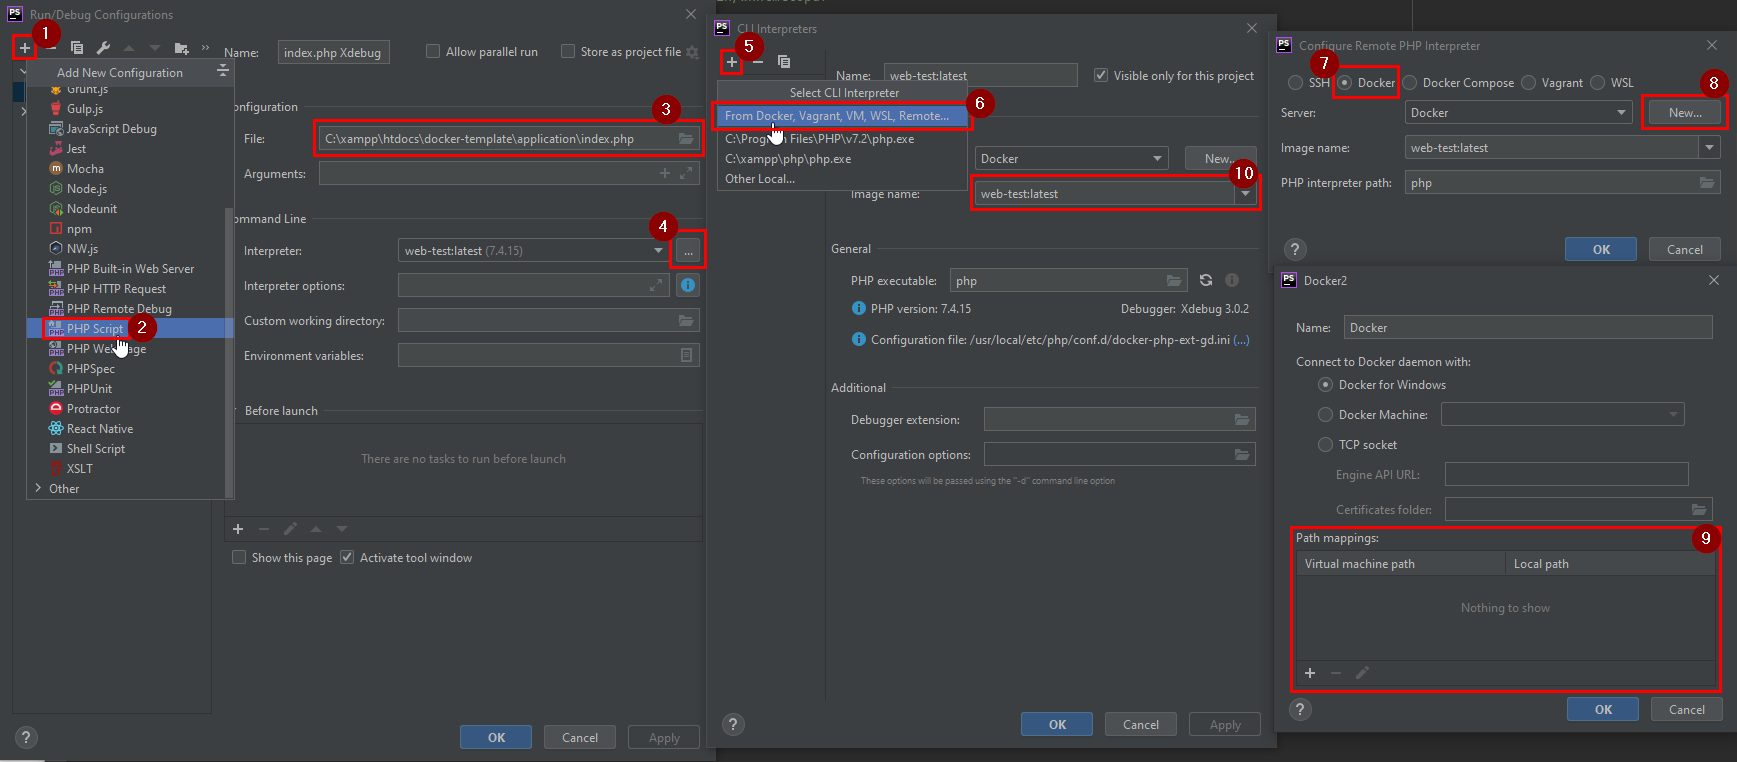
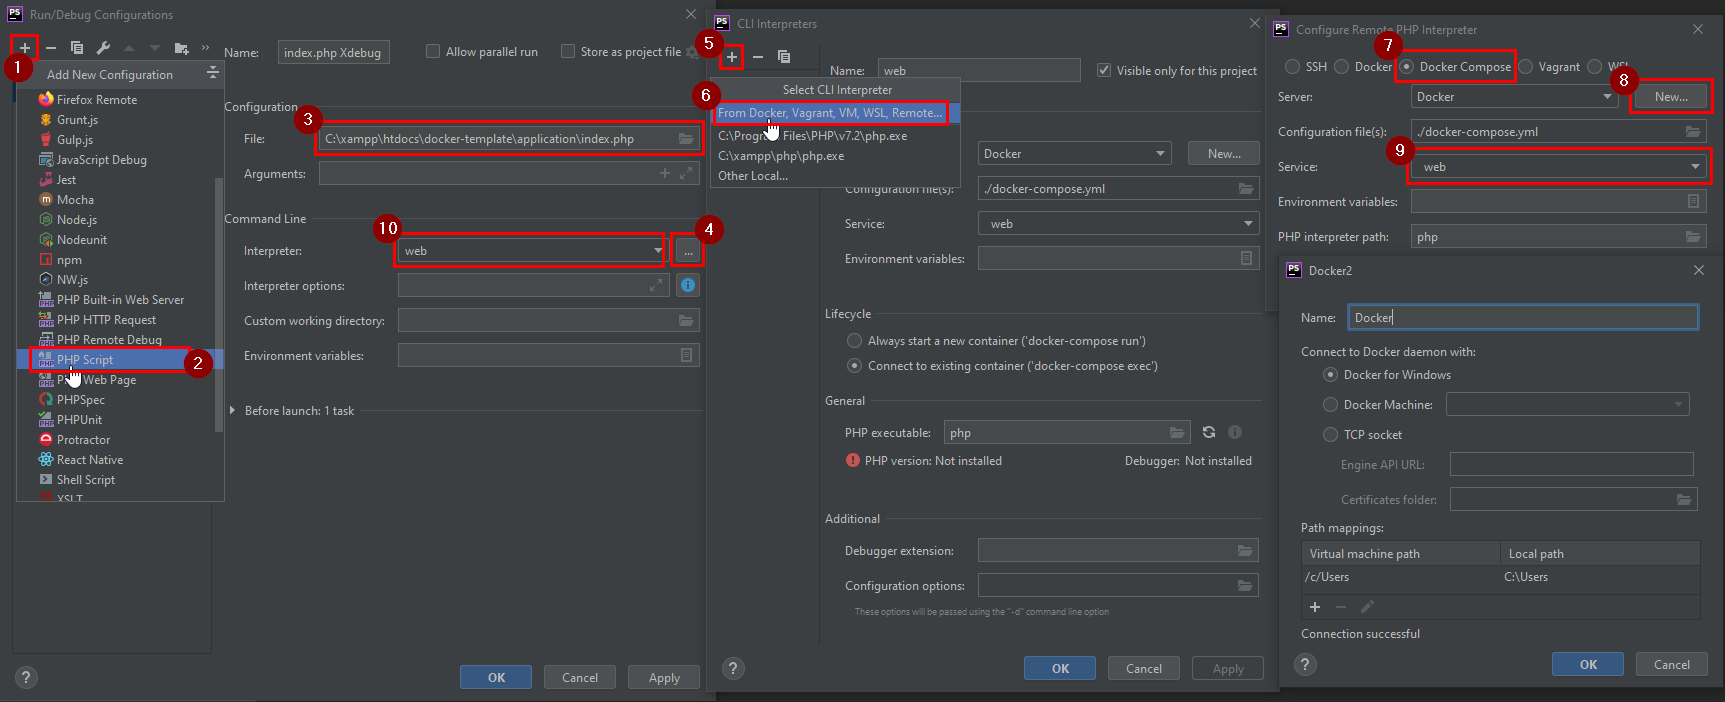
fixed weird PHPStorm xdebug run configuration of PHPScripts bug

diff --git a/README.md b/README.md
@@ -28,7 +28,7 @@ copy `.env.sample` to `.env`
 ### 2. Set some important variables
 Set your project name in the `.env` file like so:
 ```dotenv
-COMPOSE_PROJECT_NAME=my-project
+PROJECT_NAME=my-project
 ```
 This prevents container name collisions in the future.
 ___
@@ -184,25 +184,22 @@ The following picture describes how to setup a Debug Configuration in PHPStorm i
 1. Click on the `+`  to create a new configuration
 2. Choose `PHP Script`
 3. Choose your local file you want to debug
-4. Choose the PHP interpreter from the docker container
+4. Click on `...` next to the CLI interpreter
 5. Click on the `+` to create a new PHP CLI Interpreter
 6. Choose `From Docker, Vagrant, VM, WSL, Remote...`
-7. Choose `Docker`
-8. Create a new Docker server if you haven't configured one already
-9. Delete all path mappings here
+7. Choose `Docker Compose`
+8. Click on `New...` next to *Server* if you haven't created a Docker Server Configuration yet. Confirm with `OK`.
+10. Make sure to set the Interpreter to the created `web` CLI Interpreter.
 
-After that make sure you have the PHP CLI Interpreter configured to the docker container at `Settings - Languages & Frameworks - PHP`:
-![_docker/docs/interpreter.png](_docker/docs/xdebug-script-interpreter.png)
+After that make sure you **also** have the PHP CLI Interpreter configured to the docker container at `Settings - Languages & Frameworks - PHP`.
+Here you also have to configure the path mapping of your project root to the root inside the container (`/var/www/html`):
+![_docker/docs/xdebug-script-interpreter.png](_docker/docs/xdebug-script-interpreter.png)
 
-Now you can start debugging your PHP script by...
+Now you can start debugging your PHP script with...
 1. Setting a breakpoint in your PHP script:
 
    ![_docker/docs/xdebug-step1.png](_docker/docs/xdebug-step1.png)
-2. Listening to debug connections:
-
-   ![_docker/docs/xdebug-step2.png](_docker/docs/xdebug-step2.png)
-
-3. Start running the script with the debug button:
+2. Start running the script with the debug button:
 
    ![_docker/docs/xdebug-script-debug-button.png](_docker/docs/xdebug-script-debug-button.png)
 
@@ -252,7 +249,7 @@ Composer, npm and grunt is pre-installed in the `web` container.
 
 `composer install` and `npm install` is automatically executed at container startup if configured.
 
-If you want to manually execute another command, it is best to execute it **in** the container:
+If you want to manually execute another command, it is best to execute it **in** the `web` container:
 ```bash
 ./shell.cmd # go into container on unix/linux
 shell.cmd # go into container on windows
@@ -262,7 +259,6 @@ npm <any-npm-command>
 grunt
 <any-other-command>
 ```
-`COMPOSE_PROJECT_NAME` is defined in your `.env` file
 
 
 ### 11. Catch outgoing mails
@@ -553,9 +549,11 @@ shell.cmd db /bin/sh      # goes into db container on /bin/sh
 * [x] container entrance script independent of platform?
 * [x] support for php script xdebugging (e.g. via cake command class or classic script) -> PHPStorm: Languages & Frameworks - PHP -> CLI Interpreters; PHPStorm: Build, Execution, Deployment - Docker - add new Docker connection with path mapping
 * [x] progress output for initial .sql file import (working inside container; not working with `docker-compose up`)
-* [ ] php xdebug script with docker: db connection fails (see gkm.docker (cakephp) -> bin/cake.php next_delivery) (wrong path mapping? pwd -> /opt/project)
+* [x] php xdebug script with docker
+* [x] rename image + containers: <name>-web, <name>-db
 * [ ] Dockerization Tips: put files to git, where it makes sense; add php.ini as configured on live server, correct PHP version as on server, composer.lock used on server, to install exactly those versions, correct composer version, install all required php extensions
 * [ ] dockerize IFAA (Genesis World, ERP, Shop)
 * [ ] test xdebug on linux and on macos
 * [ ] hint in documentation that `docker-compose down` will delete database in container (all changes gone)
-* [ ] rename image + containers: <name>-web, <name>-db
+* [ ] apache support for http2 (needs php-fpm) -> apache is faster
+* [ ] xdebug PHP script testing with xdebug < 3.X
